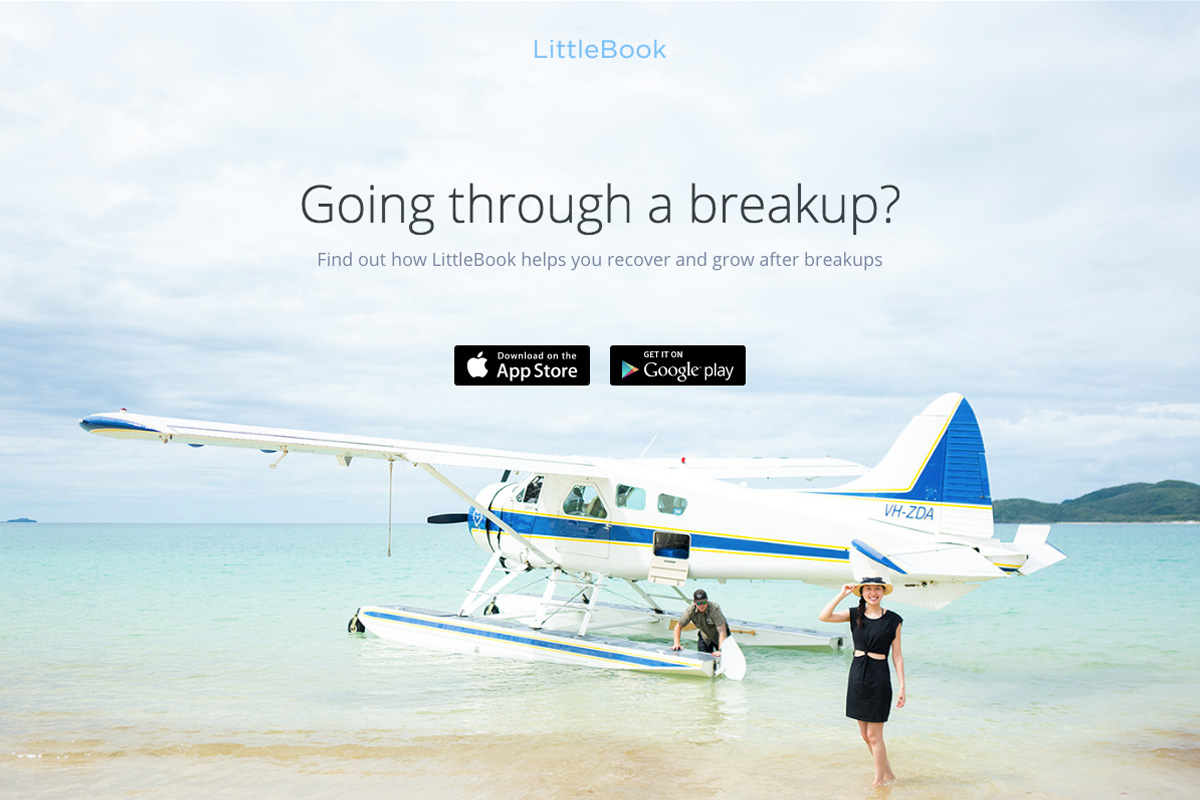
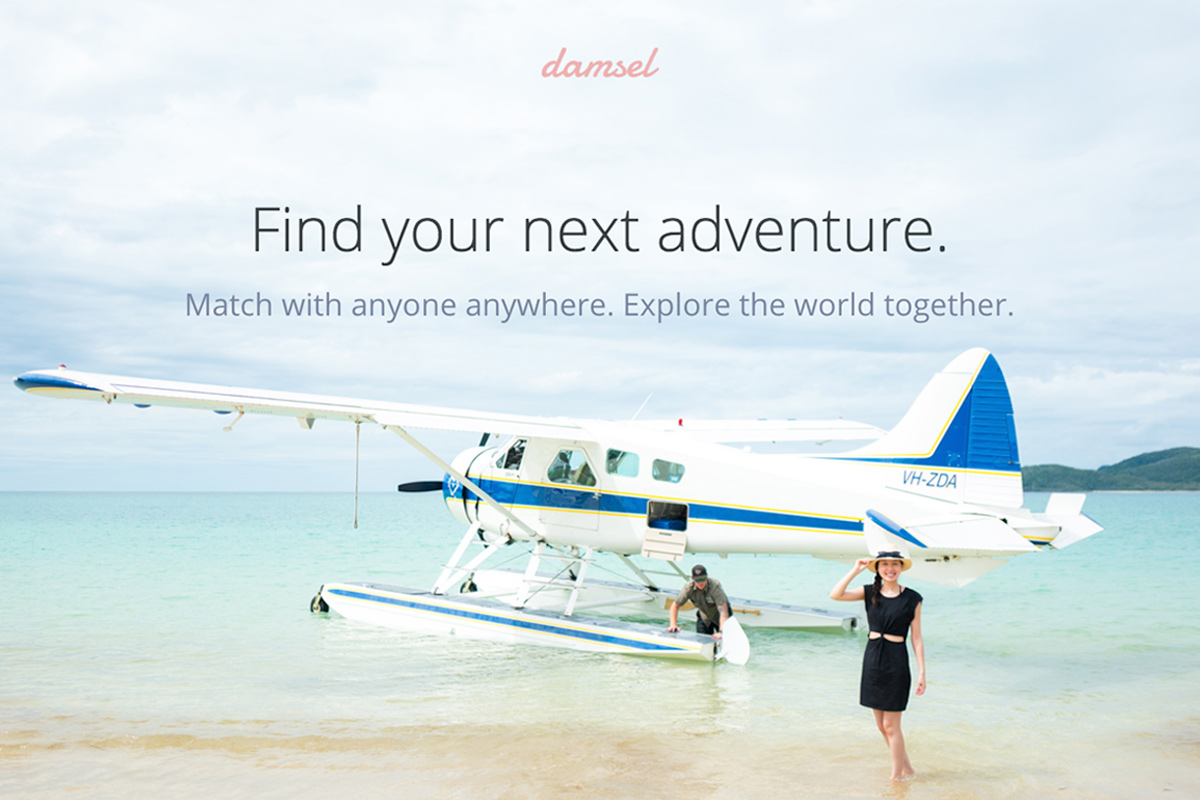
Optimize website for mobile, fix arrow, and social meta descriptions

diff --git a/index.html b/index.html
@@ -4,8 +4,8 @@
     <meta http-equiv="X-UA-Compatible" content="IE=edge">
     <meta charset="utf-8">
     <title>Damsel - The dating app for explorers.</title>
-    <meta name="description" content="Find your next adventure with Damsel.  Match with anyone anywhere. Explore the world together." />
-    <!-- <meta name="keywords" content="img-assets/socialthumbmail.jpg" /> -->
+    <meta name="description" content="The dating app for explorers. Match with anyone anywhere. Explore the world together." />
+    <meta name="keywords" content="img-assets/socialthumbmail.jpg" />
 
     <meta name="viewport" content="width=device-width, initial-scale=1">
     <meta name="author" content="Damsel.app" />
@@ -14,17 +14,17 @@
 <!--     <meta name="google-site-verification" content="GUdKnHsUMNvZrWFGae5DxoomiCCuELuC4jahG8X61Hw" /> -->
     <meta property="og:title" content="Damsel - Find your next adventure." />
     <meta property="og:locale" content="en_US" />  
-    <!-- <meta property="fb:app_id" content="" /> -->
+    <meta property="fb:app_id" content="" />
     <meta property="og:site_name" content="Damsel.app"/>
     <meta property="og:type" content="article" />
-    <!-- <meta property="og:image" content="img-assets/socialthumbnail.jpg" /> -->
-    <!-- <meta property="og:url" content="http://www.thebreakupapp.com/littlebook.html" /> -->
+    <meta property="og:image" content="img-assets/socialthumbnail.jpg" />
+    <meta property="og:url" content="https://www.damsel.app/" />
     <meta property="og:description" content="The dating app for explorers. Match with anyone anywhere. Explore the world together." />
 
     <meta name="twitter:card" content="summary" />
     <meta name="twitter:title" content="Damsel" />
     <meta name="twitter:description" content="The dating app for explorers. Match with anyone anywhere. Explore the world together." />
-    <!-- <meta name="twitter:image" content="img-assets/socialthumbmail.jpg" />   -->
+    <meta name="twitter:image" content="img-assets/socialthumbmail.jpg" />  
  
 
     <!-- <link rel="icon" href="http://www.thebreakupapp.com/wp-content/uploads/2016/04/cropped-favicon-32x32.png" sizes="32x32" /> -->
@@ -56,10 +56,10 @@
   <!-- Top bar removed for now -->
 <!--  <div class="top-bar">
     <div class="top-bar-text">Available on iOS and Android.</div>
-    <h1 class="logo hide-text">LittleBook</h1>
+    <h1 class="logo hide-text">Damsel</h1>
     <a href="/login" class="sign-in-button">Download</a>
   </div> -->
-<!--   <a href="/login" class="sign-in-button">thebreakupapp.com</a>
+<!--   <a href="/login" class="sign-in-button">damsel.app</a>
  -->
   <section class="splash-content">
     <div class="logo-container">

diff --git a/css/marketing.css b/css/marketing.css
@@ -280,7 +280,7 @@ footer {
       background: url(../img-assets/logo-large.png) no-repeat;
       background-size: 130px;
       width: 130px;
-      height: 70px;
+      height: 40px;
       position: absolute;
       margin: auto;
       top: 0;
@@ -349,12 +349,15 @@ footer {
       @media screen and (min-width: 320px) and (max-width: 650px) {
         .marketing .logo-container .logo {
           width: 120px;
-          height: 70px;
-          background-size: 120px; } }
+          height: 40px;
+          background-size: 120px; } 
+        }
   .marketing .logo-container, .marketing .splash-foot {
     height: 32.5%;
     width: 100%;
     min-height: 200px; }
+
+
   @media screen and (min-width: 320px) and (max-width: 650px) {
     .marketing .logo-container {
       height: 15%;
@@ -374,10 +377,17 @@ footer {
       bottom: 0;
       right: 0;
       z-index: 999; }
+
+    .marketing .splash-foot {
+      position: absolute;
+      bottom: 15px;
+    }
       @media screen and (min-width: 320px) and (max-width: 650px) {
-        .marketing .splash-foot .more-wrap {
-          /*display: none; */
-          } }
+        .marketing .splash-foot  {
+        position: absolute;
+        bottom: 35px;
+              } 
+           }
     .marketing .splash-foot .tell-me-more {
       padding: 12px 32px;
       border-radius: 3px;
